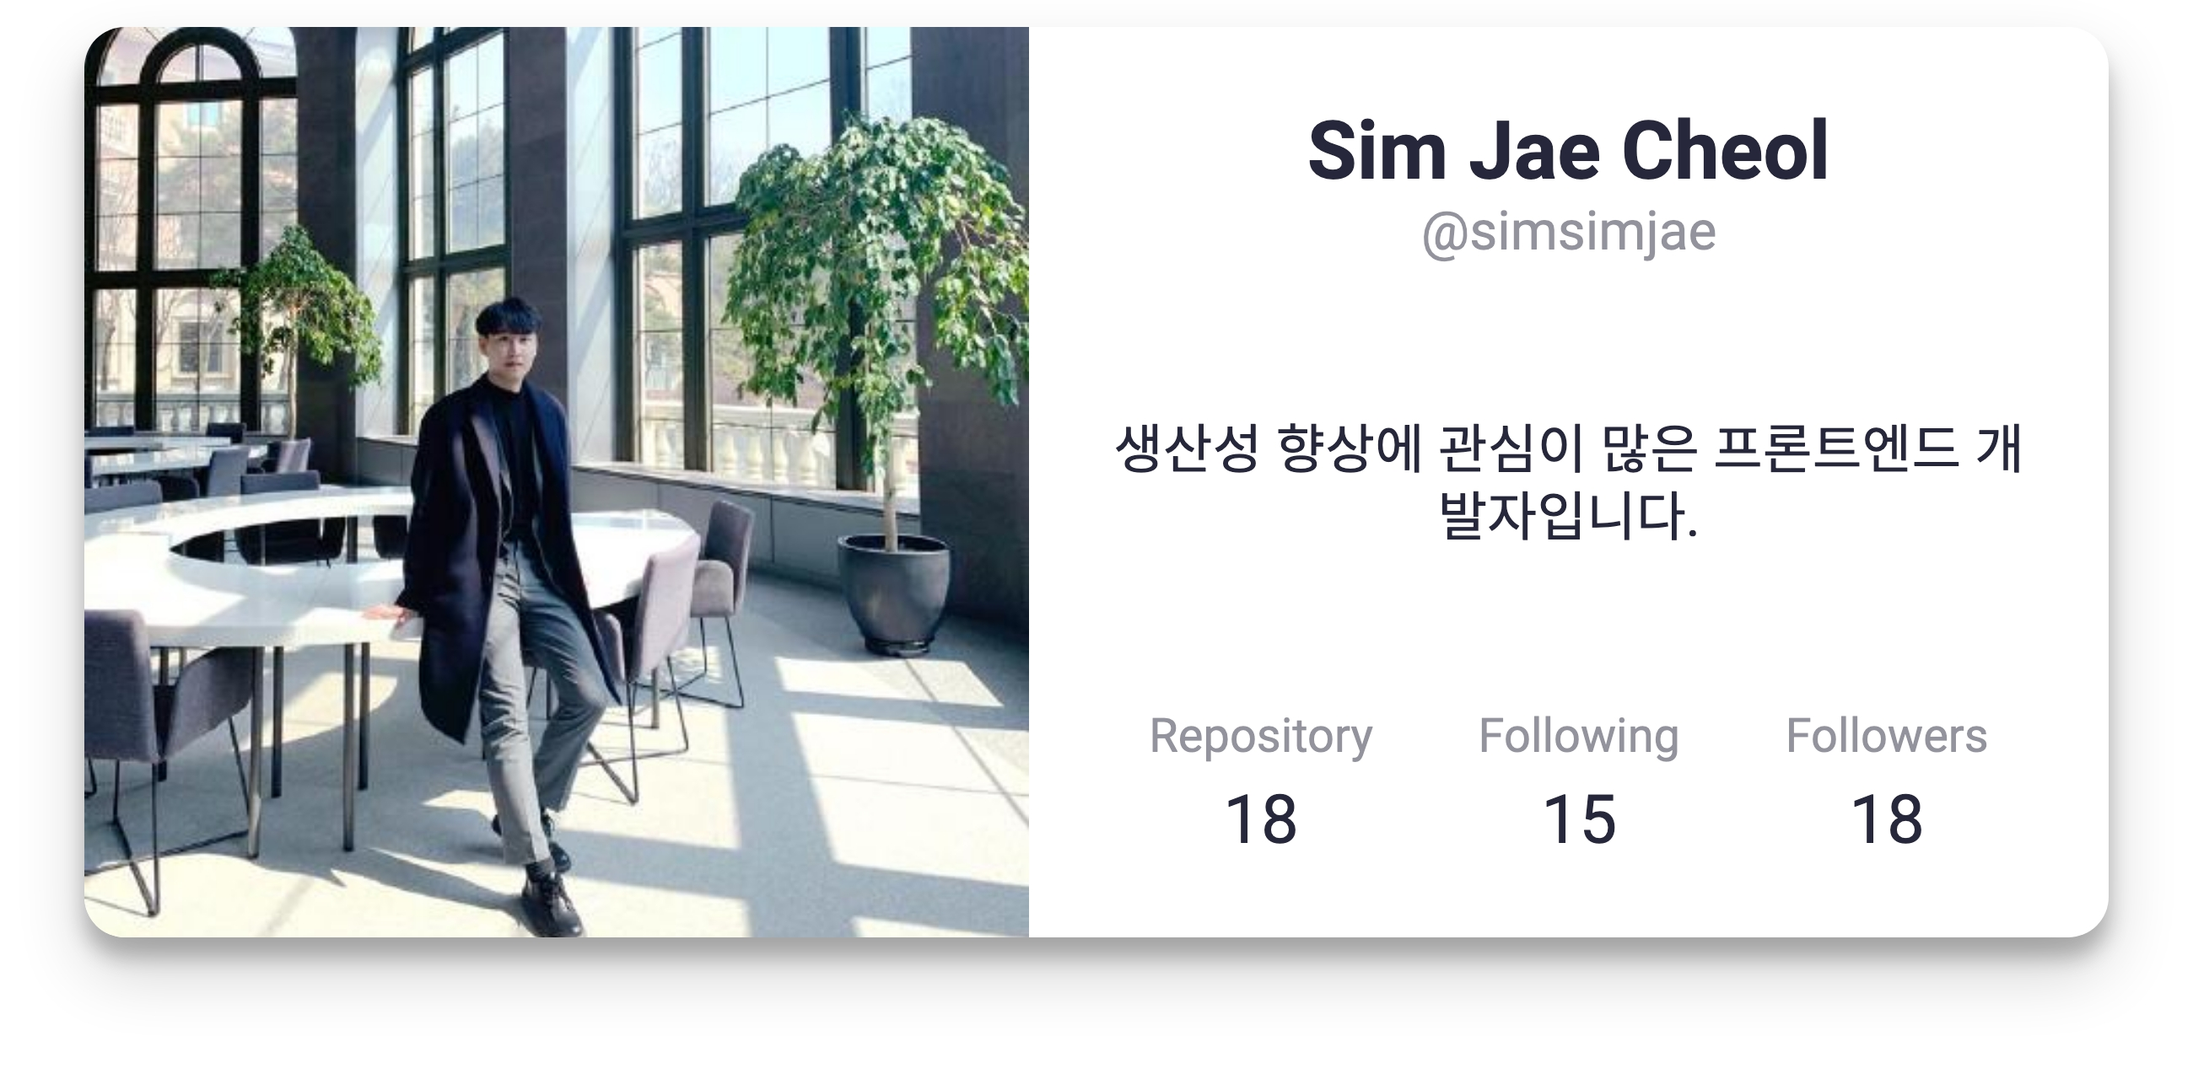
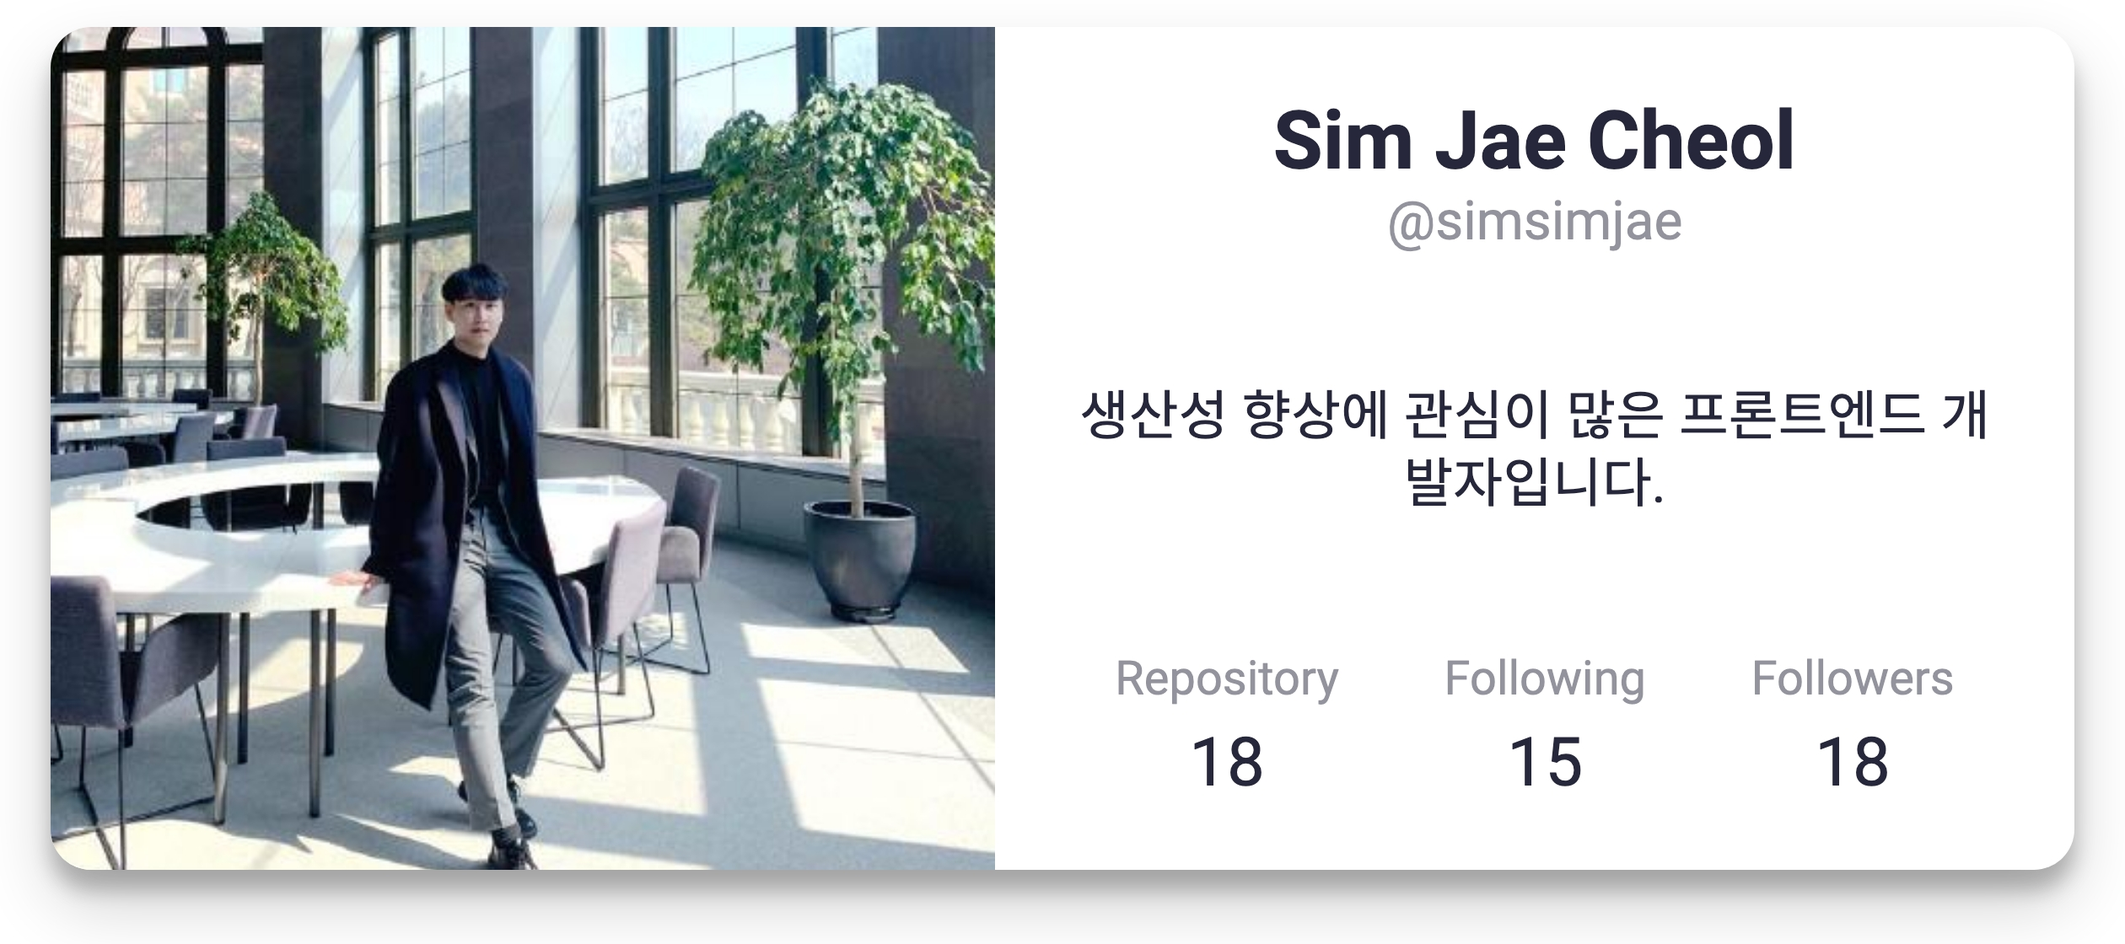
스타일 수정

diff --git a/_book/markdown/iconography.html b/_book/markdown/iconography.html
@@ -201,7 +201,7 @@
     
                                 <section class="normal markdown-section">
                                 
-                                <p><a href="https://github.com/kschoi" target="_blank"><img src="../images/kschoi.jpeg" alt="kschoi&apos;s github profile"></a></p>
+                                <p><a href="https://github.com/kschoi" target="_blank"><img src="../images/kschoi.jpeg" alt=""></a></p>
 <h1 id="iconography-&#xC774;&#xD574;&#xD558;&#xAE30;">iconography &#xC774;&#xD574;&#xD558;&#xAE30;</h1>
 <p>&#xC544;&#xC774;&#xCF58;&#xC740; &#xBAA8;&#xB4E0; &#xB514;&#xC790;&#xC778; &#xC2DC;&#xC2A4;&#xD15C;&#xC774;&#xB098; &#xC81C;&#xD488; &#xACBD;&#xD5D8;&#xC5D0;&#xC11C; &#xC911;&#xC694;&#xD55C; &#xBD80;&#xBD84;&#xC774;&#xB2E4;. &#xC544;&#xC774;&#xCF58;&#xC740; &#xC0AC;&#xC6A9;&#xC790;&#xAC00; &#xBE60;&#xB974;&#xAC8C; &#xC11C;&#xBE44;&#xC2A4;&#xB97C; &#xD0D0;&#xC0C9;&#xD558;&#xB3C4;&#xB85D; &#xB3D5;&#xACE0; &#xC5B8;&#xC5B4;&#xC5D0; &#xAD6C;&#xC560;&#xBC1B;&#xC9C0; &#xC54A;&#xB294;&#xB2E4;. &#xB610;&#xD55C; &#xC544;&#xC8FC; &#xC791;&#xC544;&#xC11C; &#xBE44;&#xC6A9;&#xC774; &#xADF8;&#xB2E4;&#xC9C0; &#xD06C;&#xC9C0;&#xB3C4; &#xC54A;&#xB2E4;. &#xC544;&#xC774;&#xCF58;&#xC740; &#xC88B;&#xC740; &#xB514;&#xC790;&#xC778; &#xC2DC;&#xC2A4;&#xD15C;&#xC758; &#xAE30;&#xBCF8;&#xC801;&#xC778; &#xBD80;&#xBD84;&#xC774;&#xBA70; &#xB9C8;&#xCF00;&#xD305; &#xC790;&#xB8CC;&#xC5D0; &#xB9E4;&#xC6B0; &#xC720;&#xC6A9;&#xD558;&#xB2E4;. &#xC544;&#xC774;&#xCF58;&#xC740; &#xC77C;&#xB7EC;&#xC2A4;&#xD2B8;&#xB808;&#xC774;&#xC158;&#xB41C; &#xCEE8;&#xD150;&#xCE20;&#xC758; &#xAE30;&#xCD08;&#xC801;&#xC778; &#xAD6C;&#xC131; &#xC694;&#xC18C;&#xC9C0;&#xB9CC;, &#xB610;&#xD55C; &#xB9E4;&#xC6B0; &#xAE30;&#xC220;&#xC801;&#xC774;&#xAE30;&#xB3C4; &#xD558;&#xB2E4;. &#xC544;&#xC774;&#xCF58;&#xC744; &#xB514;&#xC790;&#xC778;&#xD558;&#xB294; &#xAC83;&#xC744; &#xC88B;&#xC544;&#xD558;&#xB294; &#xC0AC;&#xB78C;&#xB4E4;&#xC740; &#xB9CE;&#xC9C0; &#xC54A;&#xACE0;, &#xC2EC;&#xC9C0;&#xC5B4; &#xADF8;&#xAC83;&#xC744; &#xC798; &#xD558;&#xB294; &#xC0AC;&#xB78C;&#xB4E4;&#xC740; &#xB354; &#xC801;&#xB2E4;.</p>
 <p>&#xB514;&#xC790;&#xC778; &#xC2DC;&#xC2A4;&#xD15C; &#xC804;&#xBB38;&#xAC00;, &#xC77C;&#xB7EC;&#xC2A4;&#xD2B8;&#xB808;&#xC774;&#xD130; &#xB610;&#xB294; &#xD504;&#xB85C;&#xB355;&#xD2B8; &#xB514;&#xC790;&#xC774;&#xB108;&#xAC00; &#xB418;&#xB4E0;, &#xC774; &#xAC00;&#xC774;&#xB4DC;&#xB294; &#xC544;&#xC774;&#xCF58;&#xC744; &#xB9CC;&#xB4DC;&#xB294; &#xBC29;&#xBC95;, &#xBE0C;&#xB79C;&#xB4DC;&#xC5D0; &#xB9DE;&#xAC8C; &#xC815;&#xB82C;&#xD558;&#xB294; &#xBC29;&#xBC95;, &#xB514;&#xC790;&#xC778; &#xC2DC;&#xC2A4;&#xD15C;&#xC5D0; &#xAD6C;&#xD604;&#xD558;&#xB294; &#xBC29;&#xBC95; &#xB4F1;&#xC744; &#xBC30;&#xC6B8; &#xC218; &#xC788;&#xB3C4;&#xB85D; &#xB3C4;&#xC640;&#xC900;&#xB2E4;. &#xAE30;&#xBCF8;&#xBD80;&#xD130; &#xC2DC;&#xC791;&#xD574;&#xBCF4;&#xC790;.</p>
@@ -298,7 +298,7 @@
     <script>
         var gitbook = gitbook || [];
         gitbook.push(function() {
-            gitbook.page.hasChanged({"page":{"description":"이 문서는 A complete guide to iconography(https://bre.is/HA9kEWEy) 를 한글 의역, 요약한 문서입니다.","title":"iconography 이해하기","level":"1.5","depth":1,"previous":{"title":"디자인시스템 문서화 도구","level":"1.4","depth":1,"path":"markdown/tools.md","ref":"markdown/tools.md","articles":[]},"dir":"ltr"},"config":{"gitbook":"*","theme":"default","variables":{},"plugins":["hints","livereload"],"pluginsConfig":{"hints":{"info":"fa fa-info-circle","tip":"fa fa-mortar-board","danger":"fa fa-exclamation-circle","working":"fa fa-wrench"},"livereload":{},"highlight":{},"search":{},"lunr":{"maxIndexSize":1000000,"ignoreSpecialCharacters":false},"sharing":{"facebook":true,"twitter":true,"google":false,"weibo":false,"instapaper":false,"vk":false,"all":["facebook","google","twitter","weibo","instapaper"]},"fontsettings":{"theme":"white","family":"sans","size":2},"theme-default":{"styles":{"website":"styles/website.css","pdf":"styles/pdf.css","epub":"styles/epub.css","mobi":"styles/mobi.css","ebook":"styles/ebook.css","print":"styles/print.css"},"showLevel":false}},"structure":{"langs":"LANGS.md","readme":"README.md","glossary":"GLOSSARY.md","summary":"SUMMARY.md"},"pdf":{"pageNumbers":true,"fontSize":12,"fontFamily":"Arial","paperSize":"a4","chapterMark":"pagebreak","pageBreaksBefore":"/","margin":{"right":62,"left":62,"top":56,"bottom":56}},"styles":{"website":"styles/website.css","pdf":"styles/pdf.css","epub":"styles/epub.css","mobi":"styles/mobi.css","ebook":"styles/ebook.css","print":"styles/print.css"}},"file":{"path":"markdown/iconography.md","mtime":"2020-09-03T04:49:57.936Z","type":"markdown"},"gitbook":{"version":"3.2.3","time":"2020-09-03T06:00:08.201Z"},"basePath":"..","book":{"language":""}});
+            gitbook.page.hasChanged({"page":{"description":"이 문서는 A complete guide to iconography(https://bre.is/HA9kEWEy) 를 한글 의역, 요약한 문서입니다.","title":"iconography 이해하기","level":"1.5","depth":1,"previous":{"title":"디자인시스템 문서화 도구","level":"1.4","depth":1,"path":"markdown/tools.md","ref":"markdown/tools.md","articles":[]},"dir":"ltr"},"config":{"gitbook":"*","theme":"default","variables":{},"plugins":["hints","livereload"],"pluginsConfig":{"hints":{"info":"fa fa-info-circle","tip":"fa fa-mortar-board","danger":"fa fa-exclamation-circle","working":"fa fa-wrench"},"livereload":{},"highlight":{},"search":{},"lunr":{"maxIndexSize":1000000,"ignoreSpecialCharacters":false},"sharing":{"facebook":true,"twitter":true,"google":false,"weibo":false,"instapaper":false,"vk":false,"all":["facebook","google","twitter","weibo","instapaper"]},"fontsettings":{"theme":"white","family":"sans","size":2},"theme-default":{"styles":{"website":"styles/website.css","pdf":"styles/pdf.css","epub":"styles/epub.css","mobi":"styles/mobi.css","ebook":"styles/ebook.css","print":"styles/print.css"},"showLevel":false}},"structure":{"langs":"LANGS.md","readme":"README.md","glossary":"GLOSSARY.md","summary":"SUMMARY.md"},"pdf":{"pageNumbers":true,"fontSize":12,"fontFamily":"Arial","paperSize":"a4","chapterMark":"pagebreak","pageBreaksBefore":"/","margin":{"right":62,"left":62,"top":56,"bottom":56}},"styles":{"website":"styles/website.css","pdf":"styles/pdf.css","epub":"styles/epub.css","mobi":"styles/mobi.css","ebook":"styles/ebook.css","print":"styles/print.css"}},"file":{"path":"markdown/iconography.md","mtime":"2020-09-03T06:08:44.717Z","type":"markdown"},"gitbook":{"version":"3.2.3","time":"2020-09-03T06:08:15.896Z"},"basePath":"..","book":{"language":""}});
         });
     </script>
 </div>

diff --git a/_book/markdown/hi.html b/_book/markdown/hi.html
@@ -203,7 +203,7 @@
     
                                 <section class="normal markdown-section">
                                 
-                                <p><img src="../images/simsimjae.jpeg" alt="simsimjae&apos;s github profile"></p>
+                                <p><a href="https://github.com/simsimjae" target="_blank"><img src="../images/simsimjae.jpeg" alt=""></a></p>
 <h1 id="hello-world">hello world</h1>
 <p>&#xC548;&#xB155;&#xD558;&#xC138;&#xC694;</p>
 
@@ -249,7 +249,7 @@
     <script>
         var gitbook = gitbook || [];
         gitbook.push(function() {
-            gitbook.page.hasChanged({"page":{"description":"ㅈㅂㄷㄼㅈㄷㄹ","title":"hello","level":"1.3","depth":1,"next":{"title":"디자인시스템 문서화 도구","level":"1.4","depth":1,"path":"markdown/tools.md","ref":"markdown/tools.md","articles":[]},"previous":{"title":"Introduction","level":"1.2","depth":1,"path":"markdown/README.md","ref":"markdown/README.md","articles":[]},"dir":"ltr"},"config":{"gitbook":"*","theme":"default","variables":{},"plugins":["hints","livereload"],"pluginsConfig":{"hints":{"info":"fa fa-info-circle","tip":"fa fa-mortar-board","danger":"fa fa-exclamation-circle","working":"fa fa-wrench"},"livereload":{},"highlight":{},"search":{},"lunr":{"maxIndexSize":1000000,"ignoreSpecialCharacters":false},"sharing":{"facebook":true,"twitter":true,"google":false,"weibo":false,"instapaper":false,"vk":false,"all":["facebook","google","twitter","weibo","instapaper"]},"fontsettings":{"theme":"white","family":"sans","size":2},"theme-default":{"styles":{"website":"styles/website.css","pdf":"styles/pdf.css","epub":"styles/epub.css","mobi":"styles/mobi.css","ebook":"styles/ebook.css","print":"styles/print.css"},"showLevel":false}},"structure":{"langs":"LANGS.md","readme":"README.md","glossary":"GLOSSARY.md","summary":"SUMMARY.md"},"pdf":{"pageNumbers":true,"fontSize":12,"fontFamily":"Arial","paperSize":"a4","chapterMark":"pagebreak","pageBreaksBefore":"/","margin":{"right":62,"left":62,"top":56,"bottom":56}},"styles":{"website":"styles/website.css","pdf":"styles/pdf.css","epub":"styles/epub.css","mobi":"styles/mobi.css","ebook":"styles/ebook.css","print":"styles/print.css"}},"file":{"path":"markdown/hi.md","mtime":"2020-09-03T06:03:50.014Z","type":"markdown"},"gitbook":{"version":"3.2.3","time":"2020-09-03T06:00:08.201Z"},"basePath":"..","book":{"language":""}});
+            gitbook.page.hasChanged({"page":{"description":"ㅈㅂㄷㄼㅈㄷㄹ","title":"hello","level":"1.3","depth":1,"next":{"title":"디자인시스템 문서화 도구","level":"1.4","depth":1,"path":"markdown/tools.md","ref":"markdown/tools.md","articles":[]},"previous":{"title":"Introduction","level":"1.2","depth":1,"path":"markdown/README.md","ref":"markdown/README.md","articles":[]},"dir":"ltr"},"config":{"gitbook":"*","theme":"default","variables":{},"plugins":["hints","livereload"],"pluginsConfig":{"hints":{"info":"fa fa-info-circle","tip":"fa fa-mortar-board","danger":"fa fa-exclamation-circle","working":"fa fa-wrench"},"livereload":{},"highlight":{},"search":{},"lunr":{"maxIndexSize":1000000,"ignoreSpecialCharacters":false},"sharing":{"facebook":true,"twitter":true,"google":false,"weibo":false,"instapaper":false,"vk":false,"all":["facebook","google","twitter","weibo","instapaper"]},"fontsettings":{"theme":"white","family":"sans","size":2},"theme-default":{"styles":{"website":"styles/website.css","pdf":"styles/pdf.css","epub":"styles/epub.css","mobi":"styles/mobi.css","ebook":"styles/ebook.css","print":"styles/print.css"},"showLevel":false}},"structure":{"langs":"LANGS.md","readme":"README.md","glossary":"GLOSSARY.md","summary":"SUMMARY.md"},"pdf":{"pageNumbers":true,"fontSize":12,"fontFamily":"Arial","paperSize":"a4","chapterMark":"pagebreak","pageBreaksBefore":"/","margin":{"right":62,"left":62,"top":56,"bottom":56}},"styles":{"website":"styles/website.css","pdf":"styles/pdf.css","epub":"styles/epub.css","mobi":"styles/mobi.css","ebook":"styles/ebook.css","print":"styles/print.css"}},"file":{"path":"markdown/hi.md","mtime":"2020-09-03T06:08:37.427Z","type":"markdown"},"gitbook":{"version":"3.2.3","time":"2020-09-03T06:08:15.896Z"},"basePath":"..","book":{"language":""}});
         });
     </script>
 </div>

diff --git a/_book/markdown/tools.html b/_book/markdown/tools.html
@@ -248,7 +248,7 @@
     <script>
         var gitbook = gitbook || [];
         gitbook.push(function() {
-            gitbook.page.hasChanged({"page":{"title":"디자인시스템 문서화 도구","level":"1.4","depth":1,"next":{"title":"iconography 이해하기","level":"1.5","depth":1,"path":"markdown/iconography.md","ref":"markdown/iconography.md","articles":[]},"previous":{"title":"hello","level":"1.3","depth":1,"path":"markdown/hi.md","ref":"markdown/hi.md","articles":[]},"dir":"ltr"},"config":{"gitbook":"*","theme":"default","variables":{},"plugins":["hints","livereload"],"pluginsConfig":{"hints":{"info":"fa fa-info-circle","tip":"fa fa-mortar-board","danger":"fa fa-exclamation-circle","working":"fa fa-wrench"},"livereload":{},"highlight":{},"search":{},"lunr":{"maxIndexSize":1000000,"ignoreSpecialCharacters":false},"sharing":{"facebook":true,"twitter":true,"google":false,"weibo":false,"instapaper":false,"vk":false,"all":["facebook","google","twitter","weibo","instapaper"]},"fontsettings":{"theme":"white","family":"sans","size":2},"theme-default":{"styles":{"website":"styles/website.css","pdf":"styles/pdf.css","epub":"styles/epub.css","mobi":"styles/mobi.css","ebook":"styles/ebook.css","print":"styles/print.css"},"showLevel":false}},"structure":{"langs":"LANGS.md","readme":"README.md","glossary":"GLOSSARY.md","summary":"SUMMARY.md"},"pdf":{"pageNumbers":true,"fontSize":12,"fontFamily":"Arial","paperSize":"a4","chapterMark":"pagebreak","pageBreaksBefore":"/","margin":{"right":62,"left":62,"top":56,"bottom":56}},"styles":{"website":"styles/website.css","pdf":"styles/pdf.css","epub":"styles/epub.css","mobi":"styles/mobi.css","ebook":"styles/ebook.css","print":"styles/print.css"}},"file":{"path":"markdown/tools.md","mtime":"2020-09-03T02:29:33.312Z","type":"markdown"},"gitbook":{"version":"3.2.3","time":"2020-09-03T06:00:08.201Z"},"basePath":"..","book":{"language":""}});
+            gitbook.page.hasChanged({"page":{"title":"디자인시스템 문서화 도구","level":"1.4","depth":1,"next":{"title":"iconography 이해하기","level":"1.5","depth":1,"path":"markdown/iconography.md","ref":"markdown/iconography.md","articles":[]},"previous":{"title":"hello","level":"1.3","depth":1,"path":"markdown/hi.md","ref":"markdown/hi.md","articles":[]},"dir":"ltr"},"config":{"gitbook":"*","theme":"default","variables":{},"plugins":["hints","livereload"],"pluginsConfig":{"hints":{"info":"fa fa-info-circle","tip":"fa fa-mortar-board","danger":"fa fa-exclamation-circle","working":"fa fa-wrench"},"livereload":{},"highlight":{},"search":{},"lunr":{"maxIndexSize":1000000,"ignoreSpecialCharacters":false},"sharing":{"facebook":true,"twitter":true,"google":false,"weibo":false,"instapaper":false,"vk":false,"all":["facebook","google","twitter","weibo","instapaper"]},"fontsettings":{"theme":"white","family":"sans","size":2},"theme-default":{"styles":{"website":"styles/website.css","pdf":"styles/pdf.css","epub":"styles/epub.css","mobi":"styles/mobi.css","ebook":"styles/ebook.css","print":"styles/print.css"},"showLevel":false}},"structure":{"langs":"LANGS.md","readme":"README.md","glossary":"GLOSSARY.md","summary":"SUMMARY.md"},"pdf":{"pageNumbers":true,"fontSize":12,"fontFamily":"Arial","paperSize":"a4","chapterMark":"pagebreak","pageBreaksBefore":"/","margin":{"right":62,"left":62,"top":56,"bottom":56}},"styles":{"website":"styles/website.css","pdf":"styles/pdf.css","epub":"styles/epub.css","mobi":"styles/mobi.css","ebook":"styles/ebook.css","print":"styles/print.css"}},"file":{"path":"markdown/tools.md","mtime":"2020-09-03T02:29:33.312Z","type":"markdown"},"gitbook":{"version":"3.2.3","time":"2020-09-03T06:08:15.896Z"},"basePath":"..","book":{"language":""}});
         });
     </script>
 </div>

diff --git a/_book/index.html b/_book/index.html
@@ -241,7 +241,7 @@
     <script>
         var gitbook = gitbook || [];
         gitbook.push(function() {
-            gitbook.page.hasChanged({"page":{"title":"Introduction","level":"1.1","depth":1,"next":{"title":"Introduction","level":"1.2","depth":1,"path":"markdown/README.md","ref":"markdown/README.md","articles":[]},"dir":"ltr"},"config":{"gitbook":"*","theme":"default","variables":{},"plugins":["hints","livereload"],"pluginsConfig":{"hints":{"info":"fa fa-info-circle","tip":"fa fa-mortar-board","danger":"fa fa-exclamation-circle","working":"fa fa-wrench"},"livereload":{},"highlight":{},"search":{},"lunr":{"maxIndexSize":1000000,"ignoreSpecialCharacters":false},"sharing":{"facebook":true,"twitter":true,"google":false,"weibo":false,"instapaper":false,"vk":false,"all":["facebook","google","twitter","weibo","instapaper"]},"fontsettings":{"theme":"white","family":"sans","size":2},"theme-default":{"styles":{"website":"styles/website.css","pdf":"styles/pdf.css","epub":"styles/epub.css","mobi":"styles/mobi.css","ebook":"styles/ebook.css","print":"styles/print.css"},"showLevel":false}},"structure":{"langs":"LANGS.md","readme":"README.md","glossary":"GLOSSARY.md","summary":"SUMMARY.md"},"pdf":{"pageNumbers":true,"fontSize":12,"fontFamily":"Arial","paperSize":"a4","chapterMark":"pagebreak","pageBreaksBefore":"/","margin":{"right":62,"left":62,"top":56,"bottom":56}},"styles":{"website":"styles/website.css","pdf":"styles/pdf.css","epub":"styles/epub.css","mobi":"styles/mobi.css","ebook":"styles/ebook.css","print":"styles/print.css"}},"file":{"path":"README.md","mtime":"2020-09-03T02:27:35.160Z","type":"markdown"},"gitbook":{"version":"3.2.3","time":"2020-09-03T06:00:08.201Z"},"basePath":".","book":{"language":""}});
+            gitbook.page.hasChanged({"page":{"title":"Introduction","level":"1.1","depth":1,"next":{"title":"Introduction","level":"1.2","depth":1,"path":"markdown/README.md","ref":"markdown/README.md","articles":[]},"dir":"ltr"},"config":{"gitbook":"*","theme":"default","variables":{},"plugins":["hints","livereload"],"pluginsConfig":{"hints":{"info":"fa fa-info-circle","tip":"fa fa-mortar-board","danger":"fa fa-exclamation-circle","working":"fa fa-wrench"},"livereload":{},"highlight":{},"search":{},"lunr":{"maxIndexSize":1000000,"ignoreSpecialCharacters":false},"sharing":{"facebook":true,"twitter":true,"google":false,"weibo":false,"instapaper":false,"vk":false,"all":["facebook","google","twitter","weibo","instapaper"]},"fontsettings":{"theme":"white","family":"sans","size":2},"theme-default":{"styles":{"website":"styles/website.css","pdf":"styles/pdf.css","epub":"styles/epub.css","mobi":"styles/mobi.css","ebook":"styles/ebook.css","print":"styles/print.css"},"showLevel":false}},"structure":{"langs":"LANGS.md","readme":"README.md","glossary":"GLOSSARY.md","summary":"SUMMARY.md"},"pdf":{"pageNumbers":true,"fontSize":12,"fontFamily":"Arial","paperSize":"a4","chapterMark":"pagebreak","pageBreaksBefore":"/","margin":{"right":62,"left":62,"top":56,"bottom":56}},"styles":{"website":"styles/website.css","pdf":"styles/pdf.css","epub":"styles/epub.css","mobi":"styles/mobi.css","ebook":"styles/ebook.css","print":"styles/print.css"}},"file":{"path":"README.md","mtime":"2020-09-03T02:27:35.160Z","type":"markdown"},"gitbook":{"version":"3.2.3","time":"2020-09-03T06:08:15.896Z"},"basePath":".","book":{"language":""}});
         });
     </script>
 </div>

diff --git a/_book/src/makeProfile.js b/_book/src/makeProfile.js
@@ -5,7 +5,7 @@ const makeProfile = async (options) => {
   const page = await browser.newPage();
   await page.setContent(`<div id='github-profile-card' data-id='${options.id}' ${options.isCircleImage && "data-is-circle-image=''"} data-width=${options.width} data-height=${options.height} />`);
   await page.addScriptTag({ url: "https://unpkg.com/github-profile-card-component@latest/lib/scripts/index.js" });
-  await page.setViewport({ width: options.width ? parseInt(options.width, 10) + 50 : 600, height: options.height ? parseInt(options.height, 10) + 50 : 300, deviceScaleFactor: 4 });
+  await page.setViewport({ width: options.width ? parseInt(options.width, 10) + 30 : 600, height: options.height ? parseInt(options.height, 10) + 30 : 300, deviceScaleFactor: 4 });
   await page.waitFor(2000);
   await page.screenshot({ path: `images/${options.id}.jpeg`, type: "jpeg", quality: 100 });
   await browser.close();
@@ -15,7 +15,7 @@ const makeProfile = async (options) => {
   await makeProfile({
     id: "simsimjae",
     width: "600px",
-    height: "270px",
+    height: "250px",
     isCircleImage: false,
   });
 })();

diff --git a/src/makeProfile.js b/src/makeProfile.js
@@ -5,7 +5,7 @@ const makeProfile = async (options) => {
   const page = await browser.newPage();
   await page.setContent(`<div id='github-profile-card' data-id='${options.id}' ${options.isCircleImage && "data-is-circle-image=''"} data-width=${options.width} data-height=${options.height} />`);
   await page.addScriptTag({ url: "https://unpkg.com/github-profile-card-component@latest/lib/scripts/index.js" });
-  await page.setViewport({ width: options.width ? parseInt(options.width, 10) + 50 : 600, height: options.height ? parseInt(options.height, 10) + 50 : 300, deviceScaleFactor: 4 });
+  await page.setViewport({ width: options.width ? parseInt(options.width, 10) + 30 : 600, height: options.height ? parseInt(options.height, 10) + 30 : 300, deviceScaleFactor: 4 });
   await page.waitFor(2000);
   await page.screenshot({ path: `images/${options.id}.jpeg`, type: "jpeg", quality: 100 });
   await browser.close();
@@ -15,7 +15,7 @@ const makeProfile = async (options) => {
   await makeProfile({
     id: "simsimjae",
     width: "600px",
-    height: "270px",
+    height: "250px",
     isCircleImage: false,
   });
 })();

diff --git a/markdown/iconography.md b/markdown/iconography.md
@@ -4,7 +4,7 @@ description: >-
   문서입니다.
 ---
 
-[![kschoi's github profile](../images/kschoi.jpeg)](https://github.com/kschoi)
+[![](../images/kschoi.jpeg)](https://github.com/kschoi)
 
 # iconography 이해하기
 

diff --git a/markdown/hi.md b/markdown/hi.md
@@ -2,7 +2,7 @@
 description: ㅈㅂㄷㄼㅈㄷㄹ
 ---
 
-![simsimjae's github profile](../images/simsimjae.jpeg)
+<a href="https://github.com/simsimjae">![](../images/simsimjae.jpeg)</a>
 
 # hello world
 
